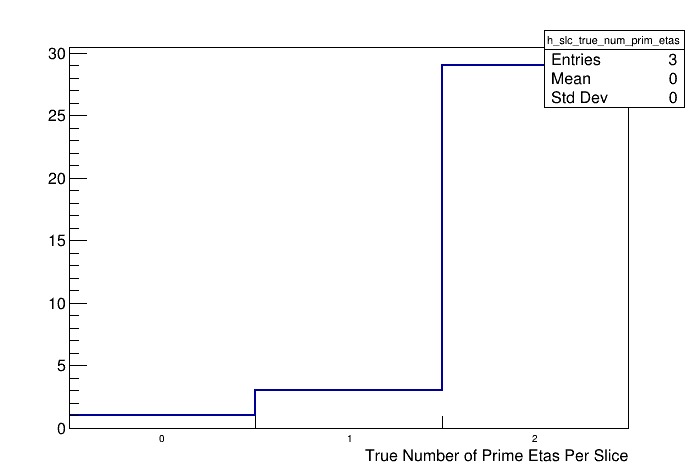
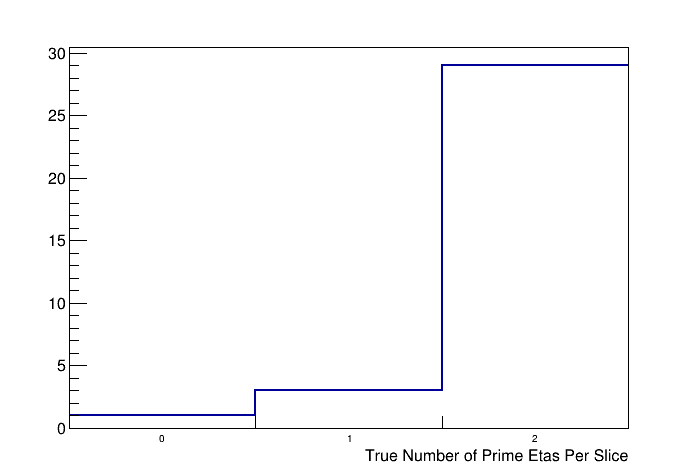
pi0 multiplicity plot

Changed region(s): [[0.7822, 0.0588, 0.9928, 0.2353]]

diff --git a/pyROOT/Scripts/basic_analysis.py b/pyROOT/Scripts/basic_analysis.py
@@ -77,6 +77,7 @@ pfp_shw_true_pdgs = []
 
 num_prim_true_etas_per_slc = []
 
+num_pi0_per_eta = []
 
 # 2D histo to hold the eff vs purity of the slice truth matching
 h_2d_slc_pur_eff = ROOT.TH2D("h_2d_slc_pur_eff", "", 11, 0, 1.1, 11, 0, 1.1)
@@ -160,8 +161,9 @@ for event in recTree:
 	for num in range(len(slc_br["rec.slc.self"])):
 		nEta = get_true_eta_mult(num, slc_mc_br)
 		num_prim_true_etas_per_slc.append(nEta)
-
-
+		if nEta > 0:
+			num_pi0 = slc_mc_br["rec.slc.truth.npizero"][num] # number of pi0s in this slice --> Maybe not primary?
+			num_pi0_per_eta.append(num_pi0)
 
 
 	# Slice Loop
@@ -212,11 +214,22 @@ for num in range(len(unique_num_prim_etas_per_slice)):
 	h_slc_true_num_prim_etas.GetXaxis().SetBinLabel(num + 1, str(unique_num_prim_etas_per_slice[num]))
 
 c = ROOT.TCanvas("c", "c", 700, 500)
+h_slc_true_num_prim_etas.SetStats(0)
 h_slc_true_num_prim_etas.SetLineWidth(2)
 h_slc_true_num_prim_etas.Draw("HIST")
 h_slc_true_num_prim_etas.GetXaxis().SetTitle("True Number of Prime Etas Per Slice")
 c.SaveAs(fig_dir+"test_slice_true_num_prim_etas.png")
 
+
+# Fraction of Etas with diff pi0 multiplicity
+h_eta_pi0_mult = make_unique_counts_hist(num_pi0_per_eta, "h_num_pi0_per_eta")
+h_eta_pi0_mult.Scale(1.0/h_eta_pi0_mult.Integral())
+c = ROOT.TCanvas("c", "c", 700, 500)
+h_eta_pi0_mult.SetStats(0)
+h_eta_pi0_mult.SetLineWidth(2)
+h_eta_pi0_mult.Draw("HIST")
+h_eta_pi0_mult.GetXaxis().SetTitle("Number of Pi0s")
+c.SaveAs(fig_dir+"test_eta_branching_fraction.png")
 
 
 # PFP Shower True PDGs

diff --git a/pyROOT/src/helpers.py b/pyROOT/src/helpers.py
@@ -1,4 +1,5 @@
 import numpy as np
+import ROOT
 from branches import *
 
 
@@ -46,5 +47,22 @@ def get_true_eta_mult(slc_idx, slc_mc_br):
 	prim_indices = get_slc_true_prim(slc_idx, slc_mc_br)
 	pdgs = [slc_mc_br["rec.slc.truth.prim.pdg"][num] for num in prim_indices]
 	return pdgs.count(221)
+
+
+
+
+# Histogram Helpers ....
+
+
+
+def make_unique_counts_hist(arr, name):
+	unique_elements = list(set(arr))
+	h = ROOT.TH1D(name, "", len(unique_elements), 0, len(unique_elements))
+	for num in range(len(unique_elements)):
+		h.SetBinContent(num + 1, arr.count(unique_elements[num]))
+		h.GetXaxis().SetBinLabel(num + 1, str(unique_elements[num]))
+	return h
+
+
 
 
